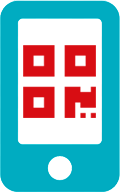
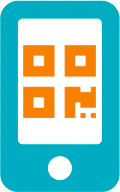
updated designs

diff --git a/index.html b/index.html
@@ -49,7 +49,7 @@
             <a class="nav-link js-scroll-trigger" href="#features">Features</a>
           </li>
           <li class="nav-item">
-            <a class="nav-link js-scroll-trigger" href="#contact">Contact</a>
+            <a class="nav-link js-scroll-trigger" href="#contact">Contact Us</a>
           </li>
         </ul>
       </div>
@@ -59,27 +59,25 @@
   <header class="masthead">
     <div class="container h-100 shoprize-masthead">
       <div class="row h-100 shoprize-masthead-row">
-        <div class="col-lg-7 my-auto shoprize-masthead-content">
+        <div class="col-lg-6 my-auto shoprize-masthead-content">
           <div class="header-content mx-auto">
             <h1 class="mb-5" style="margin-bottom:20px !important;">
-              Boost Sales Through Fun Games!
+              Receipts have never been this exciting!
             </h1>
             <h5 style="margin-bottom:3em;">
-              Increase customer spending the fun way with Shoprize Smart Reciepts.
+              Boost sales through fun games with <b>Shoprize Smart Receipts</b>.
             </h5>
             <a href="#contact" class="btn btn-outline btn-xl js-scroll-trigger">SIGN UP NOW!</a>
+            <a href="#about" class="btn btn-outline btn-xl js-scroll-trigger">Learn More</a>
           </div>
         </div>
-        <div class="col-lg-5 my-auto">
+        <div class="col-lg-6 my-auto" style="padding: 80px 0;">
           <div class="device-container">
             <div class="device-mockup iphone6_plus portrait white">
               <div class="device">
                 <div class="screen">
                   <!-- Demo image for screen mockup, you can put an image here, some HTML, an animation, video, or anything else! -->
-                  <img src="img/demo-screen-1.png" class="img-fluid" alt="">
-                </div>
-                <div class="button">
-                  <!-- You can hook the "home button" to some JavaScript events or just remove it -->
+                  <img src="img/demo-screen-1.png" class="img-fluid" alt="Shoprize Demo Screen">
                 </div>
               </div>
             </div>
@@ -87,18 +85,16 @@
         </div>
       </div>
     </div>
-    <div style="background: url('img/masthead-bg.png') no-repeat bottom;width:100%;height:100vh;"></div>
-    <!--<canvas id="starfield" width="1500" height="1000"></canvas>-->
   </header>
 
   <section class="download bg-primary text-center" id="about">
     <div class="container">
       <div class="row">
-        <div class="col-md-8 mx-auto">
-          <h2 class="section-heading">Increase your Sales with Smart Receipts</h2>
+        <div class="col-md-12 mx-auto">
+          <h2 class="section-heading">Increase your Sales<br>with Smart Receipts</h2>
           <p>See how SHOPRIZE helps businesses like yours!</p>
           <div class="badges">
-              <iframe width="560" height="315" src="https://www.youtube.com/embed/hHH48gAX_-w" frameborder="0" allow="accelerometer; autoplay; clipboard-write; encrypted-media; gyroscope; picture-in-picture" allowfullscreen></iframe>
+              <iframe height="315" src="https://www.youtube.com/embed/hHH48gAX_-w" frameborder="0" allow="accelerometer; autoplay; clipboard-write; encrypted-media; gyroscope; picture-in-picture" allowfullscreen style="width: auto; max-width: 550px;"></iframe>
           </div>
         </div>
       </div>
@@ -109,40 +105,36 @@
     <div class="container">
       <div class="section-heading text-center">
         <h2>How Does Shoprize Work?</h2>
-        <p class="text-muted">Win and spin in just 4 simple steps!</p>
+        <p class="text-muted">Spin & Win in just 4 simple steps!</p>
         <hr>
       </div>
       <div class="row">
         <div class="col-lg-6 my-auto">
-        </div>
-
-        <div class="col-lg-6 my-auto">
           <div class="container-fluid">
             <div class="row">
-              <div class="col-lg-6">
+              <div class="col-lg-6 col-md-3">
                 <div class="feature-item">
                   <img src="img/howto01.png">
                   <h3>DINE</h3>
                   <p class="text-muted">at your favorite restaurants for a minimum amount</p>
                 </div>
               </div>
-              <div class="col-lg-6">
+              <div class="col-lg-6 col-md-3">
                 <div class="feature-item">
                   <img src="img/howto02.png">
                   <h3>SCAN</h3>
                   <p class="text-muted">the QR code on the receipt using your phone</p>
                 </div>
               </div>
-            </div>
-            <div class="row">
-              <div class="col-lg-6">
+
+              <div class="col-lg-6 col-md-3">
                 <div class="feature-item">
                   <img src="img/howto03.png">
                   <h3>SPIN</h3>
                   <p class="text-muted">the wheel on your phone!</p>
                 </div>
               </div>
-              <div class="col-lg-6">
+              <div class="col-lg-6 col-md-3">
                 <div class="feature-item">
                   <img src="img/howto04.png">
                   <h3>WIN</h3>
@@ -152,6 +144,10 @@
             </div>
           </div>
         </div>
+        <div class="col-lg-6 align-bottom text-center" style="position: relative;">
+          <img class="scan-receipt-img" src="img/scan-receipt.png">
+        </div>
+
       </div>
     </div>
   </section>
@@ -180,28 +176,30 @@
 
         <div class="row" style="margin-bottom: 3em;">
 
-          <div class="col-lg-4 col-md-6 wow fadeInUp">
+          <div class="col-lg-4 col-md-4 wow fadeInUp">
             <div class="member">
-              <img src="./img/16-retail.png" class="img-fluid" alt="Retail and Merchandise">
+              <img src="./img/ind01.png" class="img-fluid" alt="Retail and Merchandise">
               <div class="member-info">
                 <div class="member-info-content">
-                  <p>Lorem ipsum dolor sit amet, consectetur adipiscing elit, sed do eiusmod tempor incididunt ut labore et dolore magna aliqua. Ut enim ad minim veniam, quis nostrud exercitation ullamco laboris nisi ut aliquip ex ea commodo consequat. </p>
-                  <a class="btn btn-outline btn-xl" href="./industries/realestate">Learn More</a>
+                  <p>
+                    Let your customers shop to their hearts' content! For a minimum purchase amount, Shoprize can issue Smart Receipts to customers who are not only chic and stylish, but also lucky enough to win exciting prizes such as vouchers or freebies!
+                  </p>
+                  <a class="btn btn-outline btn-xl js-scroll-trigger" href="#contact">Sign Up Now</a>
                 </div>
               </div>
             </div>
             <h4>Retail & Merchandise</h4>
           </div>
 
-          <div class="col-lg-4 col-md-6 wow fadeInUp" data-wow-delay="0.1s">
+          <div class="col-lg-4 col-md-4 wow fadeInUp" data-wow-delay="0.1s">
             <div class="member">
-              <img src="./img/usecase05.png" class="img-fluid" alt="Restaurants">
+              <img src="./img/ind02.png" class="img-fluid" alt="Restaurants">
               <div class="member-info">
                 <div class="member-info-content">
                   <p>
-                    Lorem ipsum dolor sit amet, consectetur adipiscing elit, sed do eiusmod tempor incididunt ut labore et dolore magna aliqua. Ut enim ad minim veniam, quis nostrud exercitation ullamco laboris nisi ut aliquip ex ea commodo consequat.  
+                    They say the fastest way to a person's heart is through the stomach, so why hold back? With Shoprize Smart Receipts, customers can dine and win by simply scanning the QR code printed on their qualifying receipts.  
                   </p>
-                  <a class="btn btn-outline btn-xl" href="./industries/retail">Learn More</a>
+                  <a class="btn btn-outline btn-xl js-scroll-trigger" href="#contact">Sign Up Now</a>
                 </div>
               </div>
             </div>
@@ -209,15 +207,15 @@
           </div>
 
           
-          <div class="col-lg-4 col-md-6 wow fadeInUp" data-wow-delay="0.2s">
+          <div class="col-lg-4 col-md-4 wow fadeInUp" data-wow-delay="0.2s">
             <div class="member">
-              <img src="./img/grocery.png" class="img-fluid" alt="Groceries">
+              <img src="./img/ind03.png" class="img-fluid" alt="Groceries">
               <div class="member-info">
                 <div class="member-info-content">
                   <p>
-                    Lorem ipsum dolor sit amet, consectetur adipiscing elit, sed do eiusmod tempor incididunt ut labore et dolore magna aliqua. Ut enim ad minim veniam, quis nostrud exercitation ullamco laboris nisi ut aliquip ex ea commodo consequat. 
+                    Grocery shopping has never been more important to consumers thanks to the effects of the pandemic. Incentivize your loyal customers by running promotions for a minimum purchase amount and encourage your shoppers to come back for more! 
                   </p>
-                  <a class="btn btn-outline btn-xl" href="./industries/sports">Learn More</a>
+                  <a class="btn btn-outline btn-xl js-scroll-trigger" href="#contact">Sign Up Now</a>
                 </div>
               </div>
             </div>
@@ -239,7 +237,7 @@
       <div class="container">
           <div class="col-md-12 wow fadeInUp" data-wow-delay="0.1s">
             <h3>Got a business? Sign up with us now!</h3><h5>Let SHOPRIZE boost your customer loyalty experience.</h5>
-            <a class="btn btn-primary-shoprize scrollto" href="#contact">Sign Up Now!</a>
+            <a class="btn btn-primary-shoprize scrollto js-scroll-trigger" href="#contact">Sign Up Now!</a>
 
           </div>
       </div>

diff --git a/css/new-age.css b/css/new-age.css
@@ -201,7 +201,7 @@ header.masthead .device-container .screen img {
 
 section.download {
   position: relative;
-  padding: 150px 0;
+  padding: 120px 0;
 }
 
 section.download h2 {
@@ -233,6 +233,11 @@ section.download .badges .badge-link img {
   section.download h2 {
     font-size: 70px;
   }
+}
+
+section.features {
+    background-color: white !important;
+    overflow-x: hidden;
 }
 
 section.features .section-heading {
@@ -558,6 +563,11 @@ footer ul li a:hover, footer ul li a:focus, footer ul li a:active, footer ul li 
 
 /* G01 */
 
+body {
+  background: url('../img/seamless-starfield-texture.jpg') repeat fixed;
+  height: auto !important;
+}
+
 canvas {
   background: #111;
   width: 100%;
@@ -565,20 +575,23 @@ canvas {
 }
 
 .masthead {
-  height: 100vh;
-  background: url('../img/seamless-starfield-texture.jpg') repeat fixed;
+  height: auto;
+  background: url('../img/masthead-bg.png') repeat-x;
+  background-position: bottom;
+  padding-bottom: 0 !important;
+}
+
+.masthead .header-content {
+  margin-bottom: 0 !important;
 }
 
 .shoprize-masthead {
-  position: absolute;
-  left: 50%;
-  width: 50%;
+
 }
 
 .shoprize-masthead-row {
   margin: 0 auto !important;
-  position: relative;
-  left: -50%;
+
 }
 
 .shoprize-masthead-content {
@@ -755,8 +768,27 @@ section.cta2 .overlay {
   margin-top: 1em;
 }
 
+
+.btn {
+  margin: 0.5em auto;
+}
+
+/* Custom Media Queries */
+
+@media (min-width: 992px) {
+  img.scan-receipt-img {
+    position: absolute;bottom: 0;left: 0;right: 0;
+  }
+}
+
 @media (min-width: 768px) {
- section.features .container {
-  background: url('../img/scan-receipt.png') no-repeat bottom left !important;
- } 
+  .badges iframe {
+    width: 550px !important;
+  }
+}
+
+@media (max-width: 575.98px) { 
+  img.scan-receipt-img {
+    width: 100%;
+  }
 }
